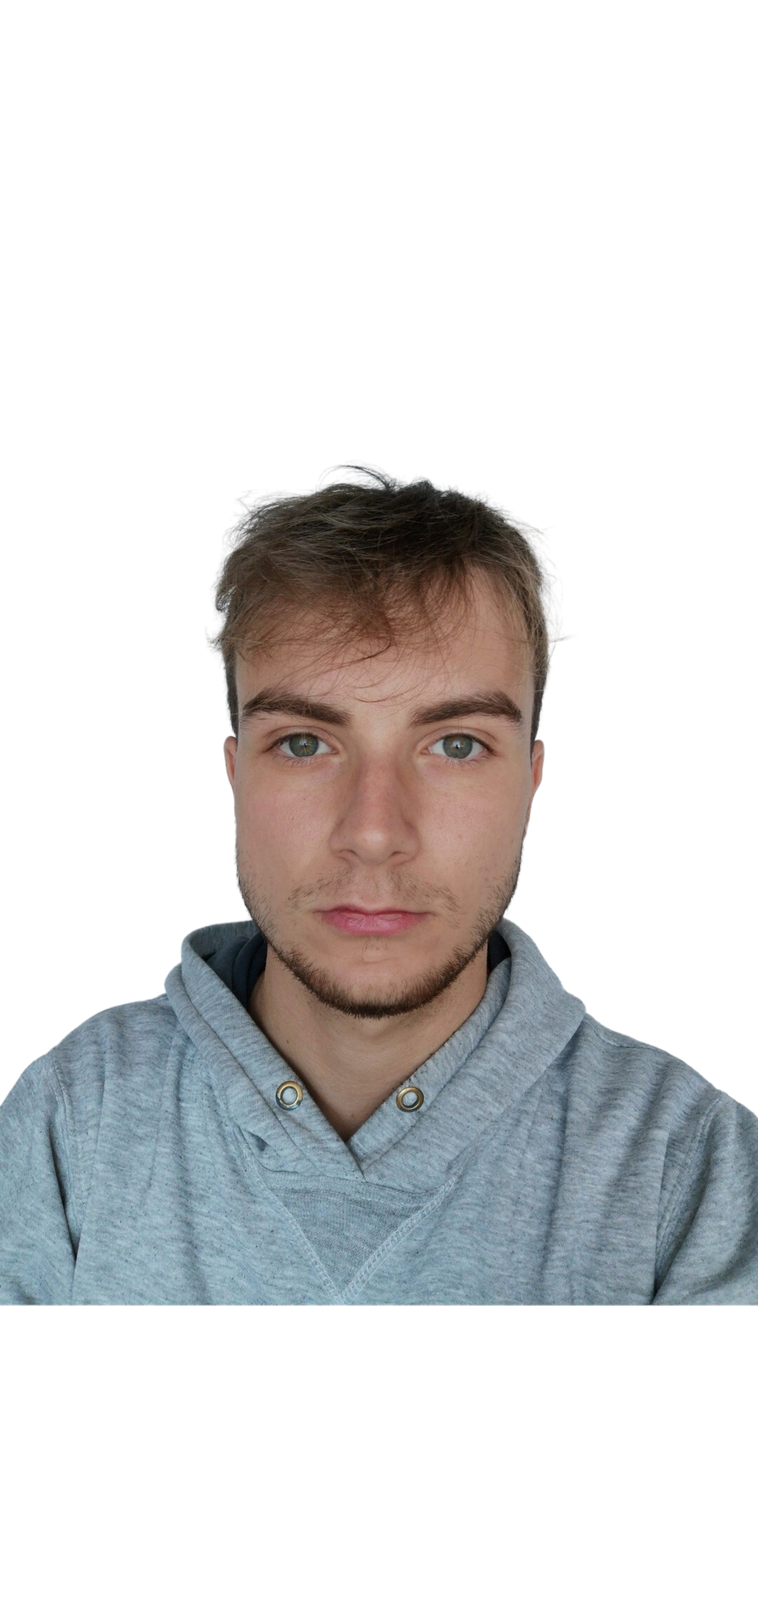
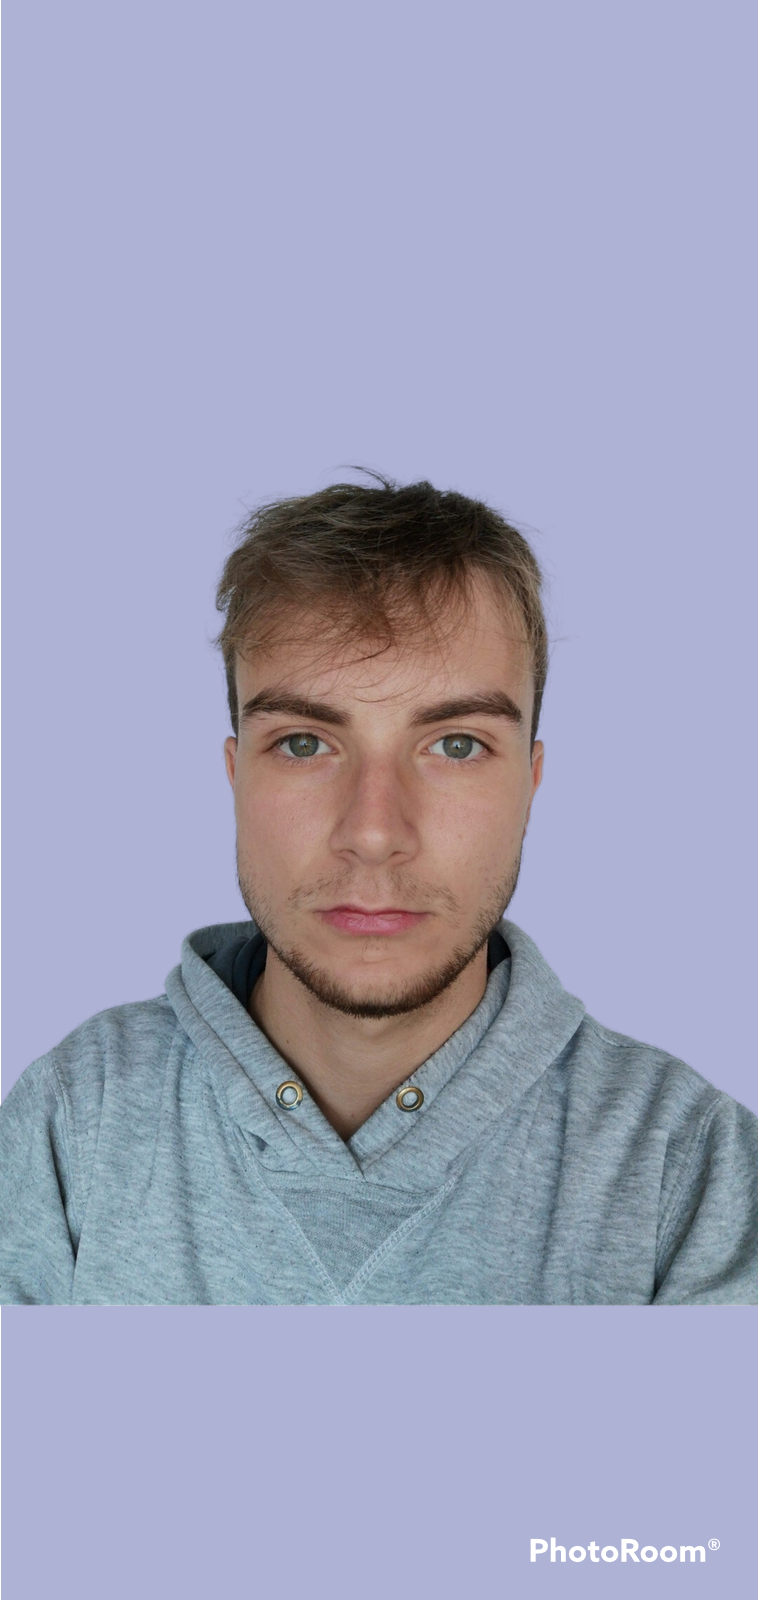
modified marco's pic

diff --git a/frontend/src/components/AppFooter.vue b/frontend/src/components/AppFooter.vue
@@ -8,7 +8,7 @@ export default {
         return {
             cards: [
                 {
-                    img: "marco.jpg",
+                    img: "marco.png",
                     name: "MARCO CELEGATO",
                     gitHub: "https://github.com/codingcele",
                 },
